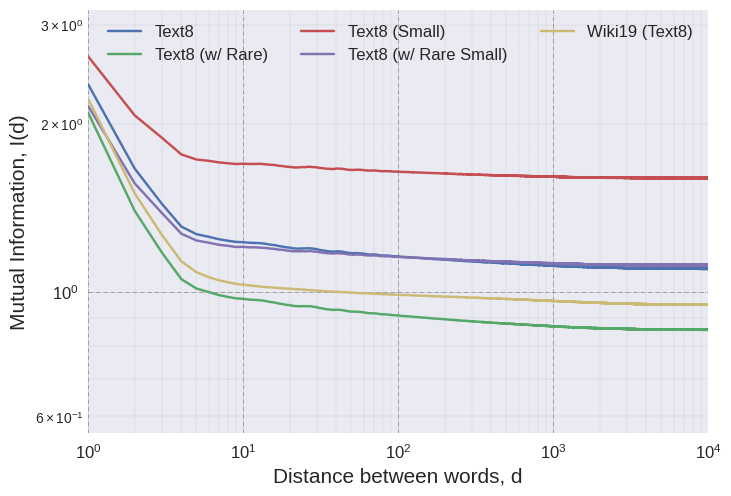
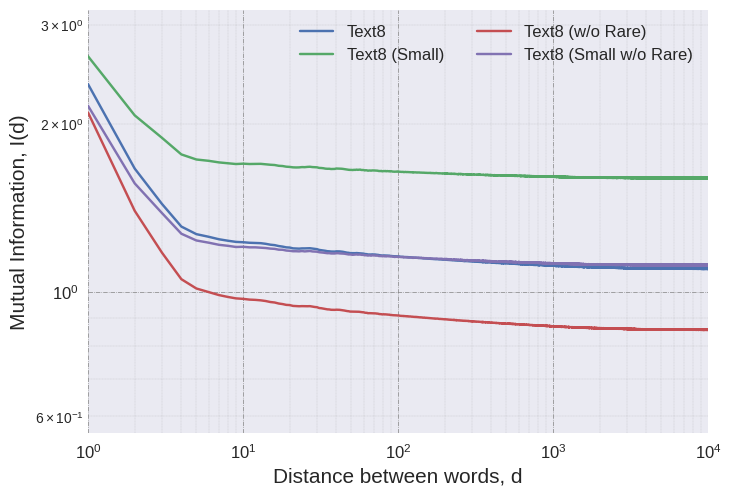
Up

diff --git a/paper_related/plot_words.py b/paper_related/plot_words.py
@@ -53,15 +53,23 @@ for filename in filenames:
 with plt.style.context(('seaborn')):
     ax = plt.axes()
 
+    # plt.loglog(np.arange(1,len(all_mi[0])+1), all_mi[0], label="PTB")
+
+    plt.loglog(np.arange(1,len(all_mi[1])+1), all_mi[1], label="Text8")
+    plt.loglog(np.arange(1,len(all_mi[3])+1), all_mi[3], label="Text8 (Small)")
+    plt.loglog(np.arange(1,len(all_mi[2])+1), all_mi[2], label="Text8 (w/o Rare)")
+    plt.loglog(np.arange(1,len(all_mi[4])+1), all_mi[4], label="Text8 (Small w/o Rare)")
+
+    # plt.loglog(np.arange(1,len(all_mi[8])+1), all_mi[8], label="Wiki19")
+    # plt.loglog(np.arange(1,len(all_mi[9])+1), all_mi[9], label="Wiki19 (Text8)")
+
     # plt.loglog(np.arange(1,len(all_mi[6])+1), all_mi[6], label="Wiki2 (Raw)")
     # plt.loglog(np.arange(1,len(all_mi[5])+1), all_mi[5], label="Wiki2")
     # plt.loglog(np.arange(1,len(all_mi[7])+1), all_mi[7], label="Wiki2 (Cleaned)")
 
-    # plt.loglog(np.arange(1,len(all_mi[8])+1), all_mi[8], label="Wiki19")
-
-    plt.loglog(np.arange(1,len(all_mi[11])+1), all_mi[11], label="Wiki103 (Raw)")
-    plt.loglog(np.arange(1,len(all_mi[10])+1), all_mi[10], label="Wiki103")
-    plt.loglog(np.arange(1,len(all_mi[12])+1), all_mi[12], label="Wiki103 (Cleaned)")
+    # plt.loglog(np.arange(1,len(all_mi[11])+1), all_mi[11], label="Wiki103 (Raw)")
+    # plt.loglog(np.arange(1,len(all_mi[10])+1), all_mi[10], label="Wiki103")
+    # plt.loglog(np.arange(1,len(all_mi[12])+1), all_mi[12], label="Wiki103 (Cleaned)")
 
     # plt.loglog(np.arange(1,len(all_mi[13])+1), all_mi[13], label="Wiki Sample 1")
     # plt.loglog(np.arange(1,len(all_mi[14])+1), all_mi[14], label="Wiki Sample 2")
@@ -69,14 +77,6 @@ with plt.style.context(('seaborn')):
     # plt.loglog(np.arange(1,len(all_mi[16])+1), all_mi[16], label="Wiki PTB like Size 2")
     # plt.loglog(np.arange(1,len(all_mi[17])+1), all_mi[17], label="Wiki PTB like Vocabulary 1")
     # plt.loglog(np.arange(1,len(all_mi[18])+1), all_mi[18], label="Wiki PTB like Vocabulary 2")
-
-    # plt.loglog(np.arange(1,len(all_mi[0])+1), all_mi[0], label="PTB")
-
-    # plt.loglog(np.arange(1,len(all_mi[1])+1), all_mi[1], label="Text8")
-    # plt.loglog(np.arange(1,len(all_mi[2])+1), all_mi[2], label="Text8 (w/ Rare)")
-    # plt.loglog(np.arange(1,len(all_mi[3])+1), all_mi[3], label="Text8 (Small)")
-    # plt.loglog(np.arange(1,len(all_mi[4])+1), all_mi[4], label="Text8 (w/ Rare Small)")
-    # plt.loglog(np.arange(1,len(all_mi[9])+1), all_mi[9], label="Wiki19 (Text8)")
 
     # plt.loglog(np.arange(1,len(all_mi[19])+1), all_mi[19], label="German Text")
 
@@ -90,6 +90,6 @@ with plt.style.context(('seaborn')):
     print(ax.get_ylim())
     ax.set_xlabel('Distance between words, d', fontsize=15)
     ax.set_ylabel('Mutual Information, I(d)', fontsize=15)
-    lgd = ax.legend(loc='upper right', shadow=True, fancybox=True, ncol=3, numpoints=1, prop={'size': 12})
-    # plt.savefig('lm_words_wiki2_ptb', bbox_extra_artists=(lgd,), bbox_inches='tight')
+    lgd = ax.legend(loc='upper right', shadow=True, fancybox=True, ncol=2, numpoints=1, prop={'size': 12})
+    plt.savefig('lm_words_text8', bbox_extra_artists=(lgd,), bbox_inches='tight')
     plt.show()
